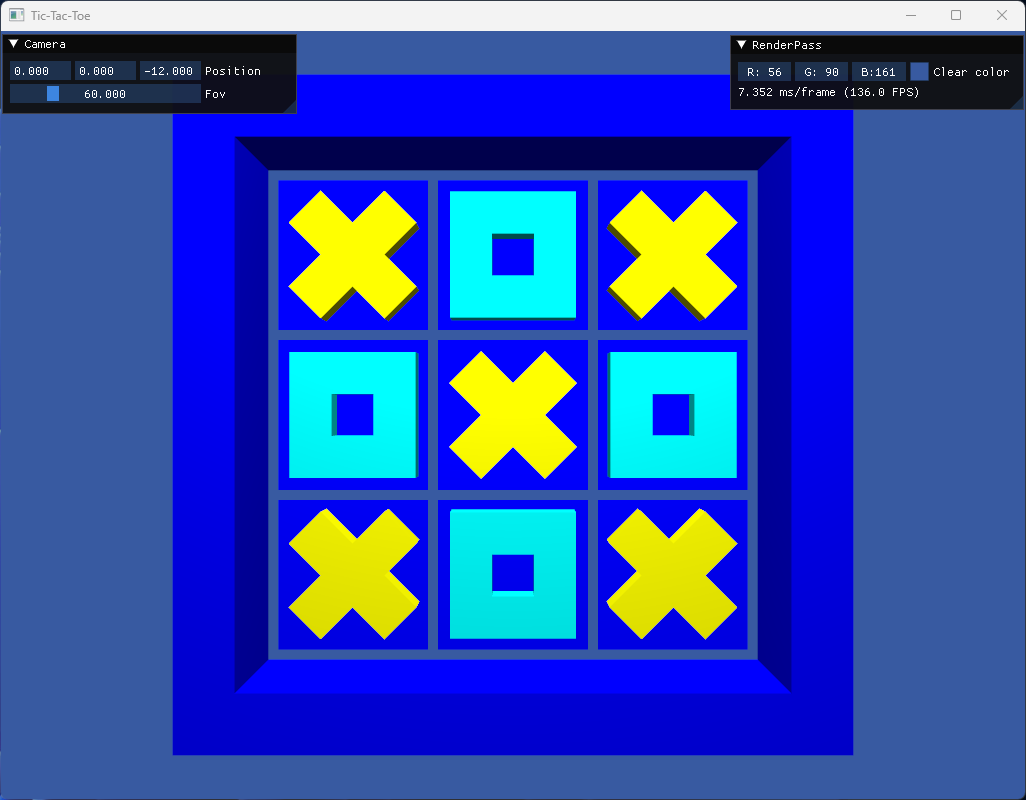
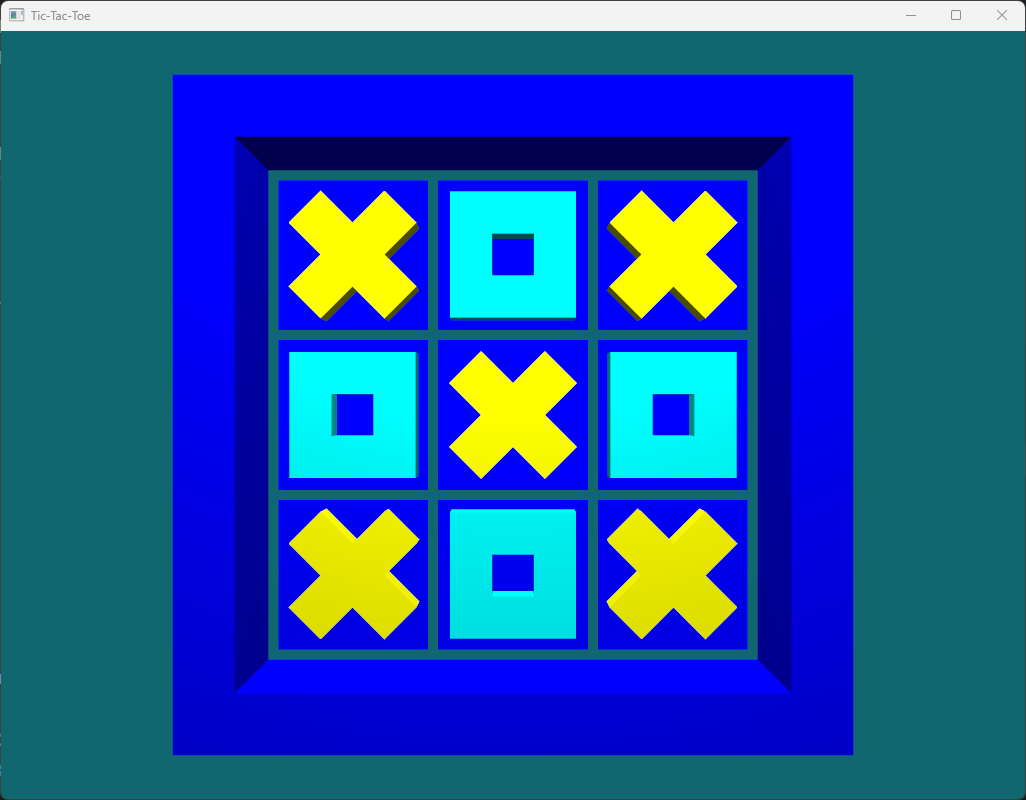
updated the screenshot without the editor

diff --git a/Code/Game/main.cpp b/Code/Game/main.cpp
@@ -13,14 +13,16 @@
 #include "light.hpp"
 #include "time.hpp"
 #include "combine_geometry.hpp"
-
-#include "editor.hpp"
 #include "physics_world.hpp"
+#include "board.hpp"
 
+//#define USE_EDITOR
+
+#ifdef USE_EDITOR
+#include "editor.hpp"
 #include "components/camera_window.hpp"
 #include "render_pass_window.hpp"
-
-#include "board.hpp"
+#endif
 
 int main()
 {
@@ -164,7 +166,7 @@ int main()
     render_pass.enable(GL_DEPTH_TEST);
     render_pass.enable(GL_MULTISAMPLE);
 
-    rgb clear_color { 0.220f, 0.353f, 0.632f };
+    rgb clear_color { 0.062, 0.403, 0.436 };
     render_pass.clear_color(clear_color);
 
     // ==================================================================================
@@ -194,6 +196,8 @@ int main()
 
     // ==================================================================================
 
+    #ifdef USE_EDITOR
+
     Editor editor;
     editor.init(window.get(), &physics);
 
@@ -206,6 +210,8 @@ int main()
 
     editor.add_window(&camera_window);
     editor.add_window(&render_pass_window);
+
+    #endif
 
     // ==================================================================================
 
@@ -250,7 +256,11 @@ int main()
 
     while (!window->closed())
     {
+        #ifdef USE_EDITOR
+
         physics.compute_debug_geometry();
+
+        #endif
 
         const float total_time = time.total_time();
 
@@ -310,8 +320,12 @@ int main()
 
         // ==================================================================================
 
+        #ifdef USE_EDITOR
+
         editor.begin(width, height, total_time);
         editor.end();
+
+        #endif
 
         // ==================================================================================
 
@@ -375,7 +389,11 @@ int main()
 
         // ==================================================================================
 
+        #ifdef USE_EDITOR
+
         editor.draw(&matrices_buffer);
+
+        #endif
 
         window->update();
         platform->update();
